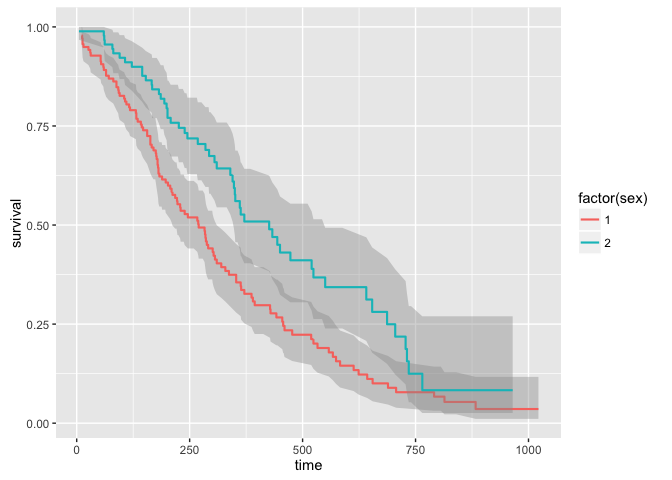
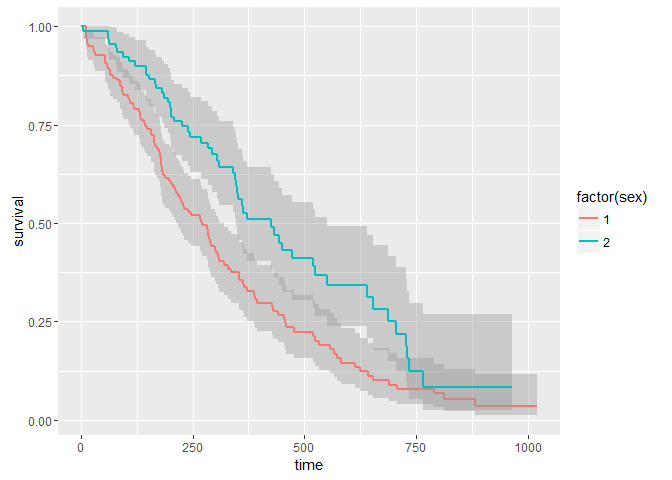
stepped ribbons, fixes #6

diff --git a/README.md b/README.md
@@ -4,10 +4,9 @@ Calculate and Display Kaplan Meier Curves using ggplot2
 Installation
 ------------
 
-This version of the package is not on CRAN. It also requires the
-development version of ggplot2. It can be installed with
+This version of the package is not on CRAN. It can be installed with
 
-    devtools::install_github("hadley/ggplot2")
+    install.packages("ggplot2")
     devtools::install_github("sachsmc/ggkm")
 
 Basic usage
@@ -23,31 +22,31 @@ Basic usage
 
     ggplot(lung, aes(time = time, status = status)) + geom_km()
 
-![](README_files/figure-markdown_strict/unnamed-chunk-1-1.png)<!-- -->
+![](README_files/figure-markdown_strict/unnamed-chunk-1-1.png)
 
     ggplot(lung, aes(time = time, status = status)) + geom_km() + facet_wrap(~ sex)
 
-![](README_files/figure-markdown_strict/unnamed-chunk-1-2.png)<!-- -->
+![](README_files/figure-markdown_strict/unnamed-chunk-1-2.png)
 
     ggplot(lung, aes(time = time, status = status, color = factor(sex))) + geom_km()
 
-![](README_files/figure-markdown_strict/unnamed-chunk-1-3.png)<!-- -->
+![](README_files/figure-markdown_strict/unnamed-chunk-1-3.png)
 
     ggplot(lung, aes(time = time, status = status)) + geom_km() + geom_kmticks()
 
-![](README_files/figure-markdown_strict/unnamed-chunk-1-4.png)<!-- -->
+![](README_files/figure-markdown_strict/unnamed-chunk-1-4.png)
 
     ggplot(lung, aes(time = time, status = status)) + geom_km() + geom_kmticks(shape = 1)
 
-![](README_files/figure-markdown_strict/unnamed-chunk-1-5.png)<!-- -->
+![](README_files/figure-markdown_strict/unnamed-chunk-1-5.png)
 
     ggplot(lung, aes(time = time, status = status, color = factor(sex))) + geom_km() + geom_kmticks()
 
-![](README_files/figure-markdown_strict/unnamed-chunk-1-6.png)<!-- -->
+![](README_files/figure-markdown_strict/unnamed-chunk-1-6.png)
 
     ggplot(lung, aes(time = time, status = status)) + geom_km(trans = "cumhaz") + geom_kmticks(trans = "cumhaz") + ylab("Cumulative hazard")
 
-![](README_files/figure-markdown_strict/unnamed-chunk-1-7.png)<!-- -->
+![](README_files/figure-markdown_strict/unnamed-chunk-1-7.png)
 
 Acknowledgements
 ================
